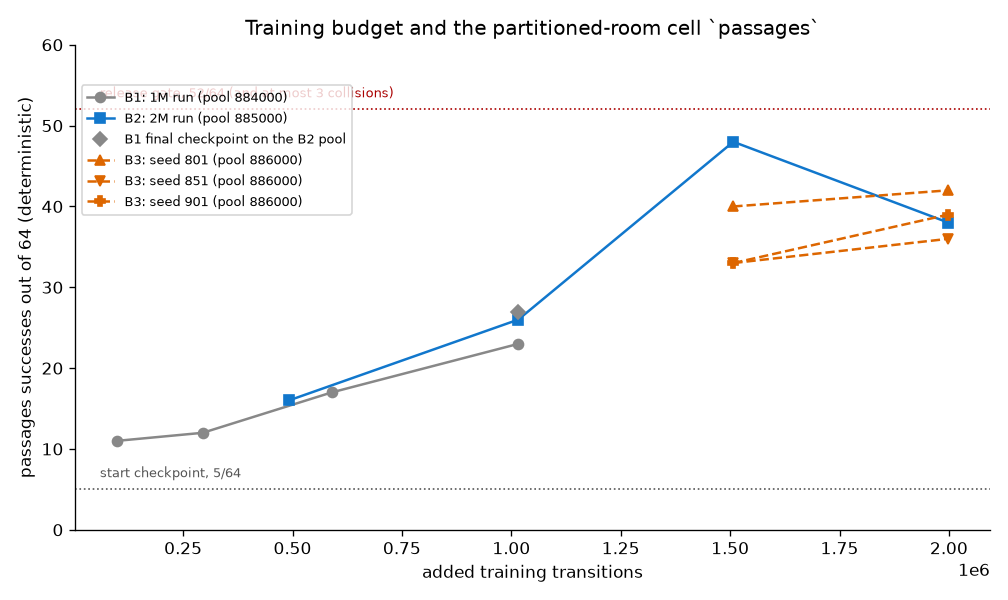
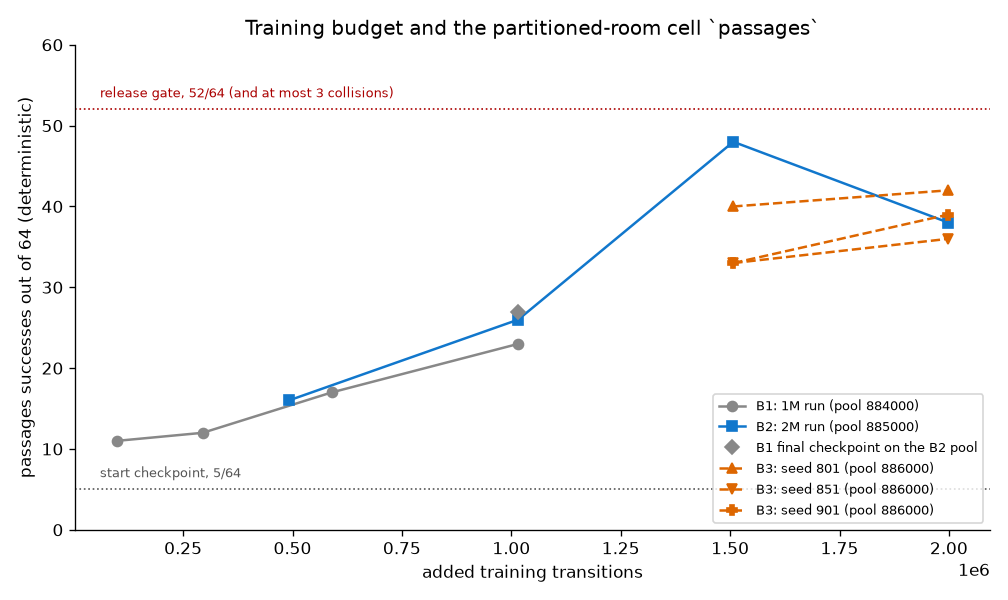
Regenerate the report figures: four seeds per arm in the connectome-control plot and an unobstructed release-gate label in the budget curve

Changed region(s): [[0.7073, 0.63, 0.9841, 0.9], [0.0615, 0.12, 0.369, 0.36], [0.9534, 0.81, 0.9841, 0.84]]

diff --git a/scripts/make_report_figures.py b/scripts/make_report_figures.py
@@ -99,24 +99,24 @@ if 'results' in what:
     ax.axhline(5, color='#555', ls=':', lw=1); ax.text(60000, 6.5, 'start checkpoint, 5/64', fontsize=8, color='#555')
     ax.axhline(52, color='#a00', ls=':', lw=1); ax.text(60000, 53.5, 'release gate, 52/64 (and at most 3 collisions)', fontsize=8, color='#a00')
     ax.set_xlabel('added training transitions'); ax.set_ylabel('passages successes out of 64 (deterministic)')
-    ax.set_ylim(0, 60); ax.set_title('Training budget and the partitioned-room cell `passages`'); ax.legend(fontsize=8, loc='upper left', bbox_to_anchor=(0.0, 0.93))
+    ax.set_ylim(0, 60); ax.set_title('Training budget and the partitioned-room cell `passages`'); ax.legend(fontsize=8, loc='lower right')
     fig.tight_layout(); fig.savefig(f'{OUT}/budget-curve.png', dpi=120); plt.close(fig)
 
     # retained lineage against the fresh chain (real and edge-shuffled), passages, deterministic
     c11 = load(f'{RUNS}/connectome-control/c11-eval/summary.json')
-    c12 = load(f'{RUNS}/connectome-control/c12-eval/summary.json')
+    c12 = {**load(f'{RUNS}/connectome-control/c12-eval/summary.json'), **load(f'{RUNS}/connectome-control/c13-eval/summary.json')}  # C1.2 seeds 1001 and 1051, C1.3 seeds 1101 and 1151
     groups = [('retained\n2.88M', [b3[f'seed{s}-s61']['passages']['det']['successes'] for s in (801, 851, 901)], '#17c'),
               ('real, fresh\n2.88M', [c11[f'real{s}']['passages']['det']['successes'] for s in (1001, 1051)], '#d60'),
               ('shuffled, fresh\n2.88M', [c11[f'shuffled{s}']['passages']['det']['successes'] for s in (1001, 1051)], '#777'),
-              ('real, fresh\n4.88M', [c12[f'real{s}']['passages']['det']['successes'] for s in (1001, 1051)], '#d60'),
-              ('shuffled, fresh\n4.88M', [c12[f'shuffled{s}']['passages']['det']['successes'] for s in (1001, 1051)], '#777')]
+              ('real, fresh\n4.88M', [c12[f'real{s}']['passages']['det']['successes'] for s in (1001, 1051, 1101, 1151)], '#d60'),
+              ('shuffled, fresh\n4.88M', [c12[f'shuffled{s}']['passages']['det']['successes'] for s in (1001, 1051, 1101, 1151)], '#777')]
     fig, ax = plt.subplots(figsize=(8.8, 5))
     for i, (label, values, color) in enumerate(groups):
         ax.bar(i, np.mean(values), color=color, alpha=0.45, width=0.6)
         ax.plot([i] * len(values), values, 'o', color='k', ms=5)
     ax.set_xticks(range(len(groups))); ax.set_xticklabels([g[0] for g in groups], fontsize=8)
     ax.set_ylabel('passages successes out of 64 (deterministic)'); ax.set_ylim(0, 50)
-    ax.set_title('Real connectome against the edge-shuffled control (bars: mean, dots: seeds)\nretained and 2.88M rows: pool 886000; 4.88M rows: pool 888000', fontsize=10)
+    ax.set_title('Real connectome against the edge-shuffled control (bars: mean, dots: seeds)\nretained and 2.88M rows: pool 886000, two seeds per fresh arm; 4.88M rows: pool 888000, four seeds per arm', fontsize=10)
     fig.tight_layout(); fig.savefig(f'{OUT}/connectome-control.png', dpi=120); plt.close(fig)
 
     # four families against the gate

diff --git a/docs/images/README.md b/docs/images/README.md
@@ -64,7 +64,7 @@ Generated by `scripts/make_report_figures.py` (run `.conda/python.exe -s scripts
 | `level-b-region-gallery.png` | eight maps of the level B held-out region (opening below 3.8 m, at least four partitions) | held-out sampler, seeds 950000 to 950007, difficulty 0.8 |
 | `architectural-scenes-gallery.png` | the six synthetic architectural scenes with the route of each of the 21 situations | architectural scene builders |
 | `budget-curve.png` | `passages` successes against added training transitions: B1, B2 and the three B3 seeds, with the start checkpoint and the release gate as references | B1, B2 and B3 evaluation summaries (pools 884000, 885000, 886000) |
-| `connectome-control.png` | `passages` for the retained lineage and the fresh real and edge-shuffled arms at 2.88M and 4.88M transitions | C1.1 and C1.2 summaries |
+| `connectome-control.png` | `passages` for the retained lineage and the fresh real and edge-shuffled arms at 2.88M and 4.88M transitions | C1.1 and C1.2 summaries, and C1.3 for the two added 4.88M seeds (four seeds per arm at 4.88M) |
 | `four-family-gate.png` | success rate of the retained candidate in the four release families against the gate, with the planner on level C | B3, B4 and C1.P summaries |
 | `shuffled-vs-real-reservoir.png` | in-degree, out-degree and weight histograms of the real connectome and of the edge-shuffled control | processed graph, shuffle seed 1 |
 | `brain-activity-example.png` | one flight in a medium room, soma-position maps of neuron activity at three steps, the 256 pooled features over time and the population activity | retained policy stage 61, seed 801, pool 886000 seed 886003, deterministic |
